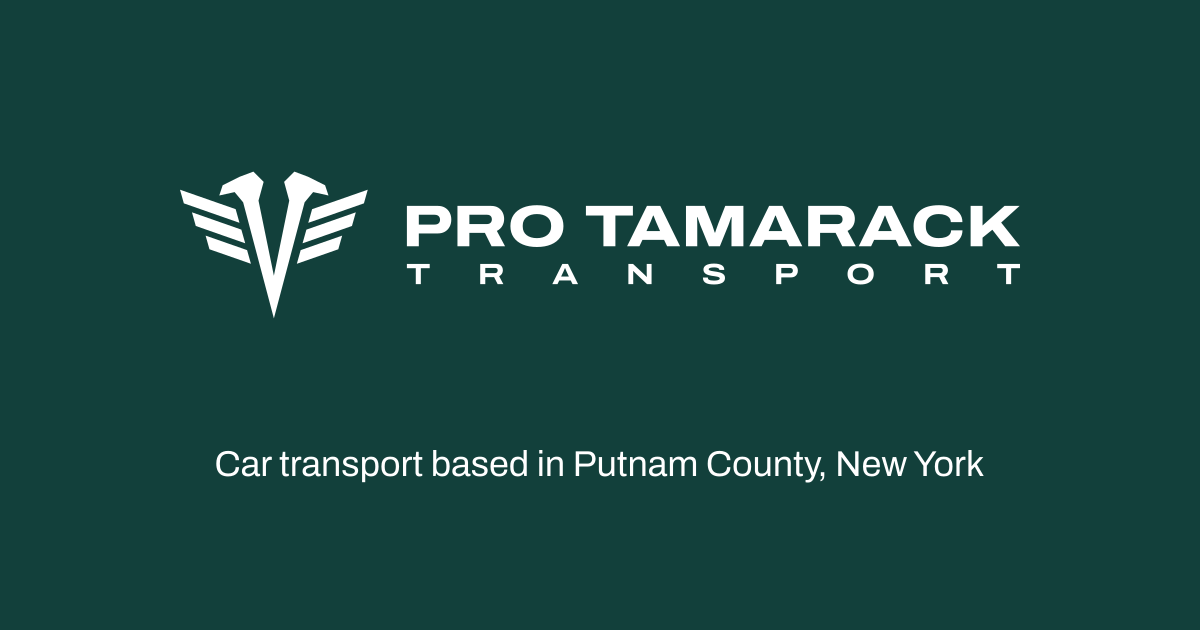
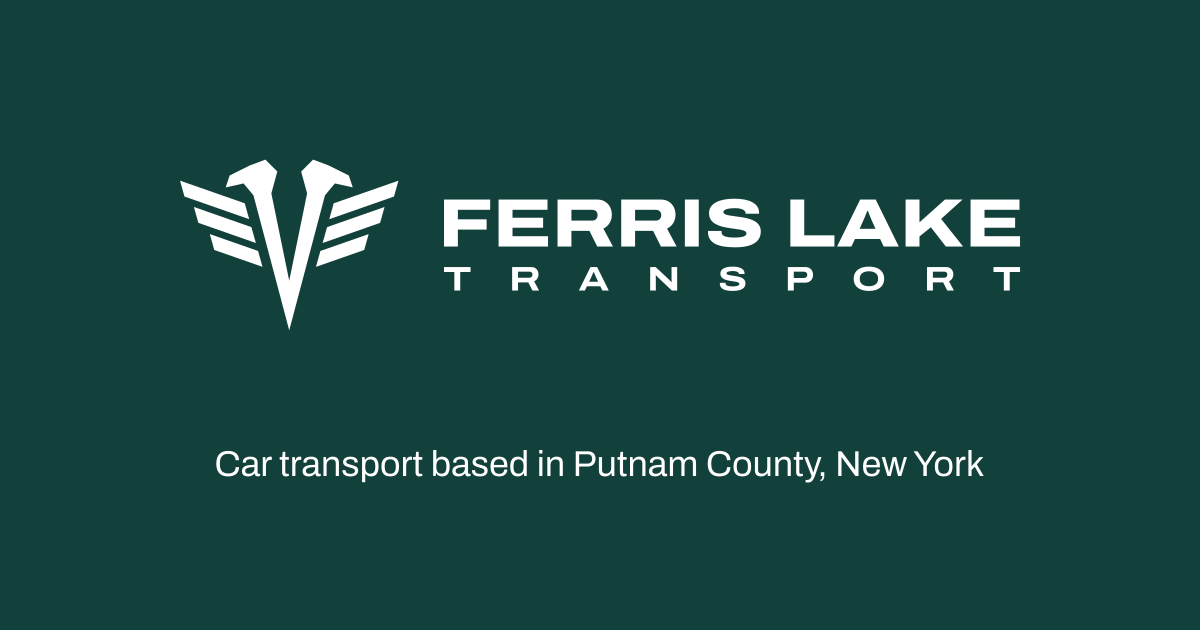
Rebrand to Ferris Lake Transport LLC

diff --git a/index.html b/index.html
@@ -4,7 +4,7 @@
   <meta charset="utf-8">
   <meta name="viewport" content="width=device-width, initial-scale=1">
 
-  <title>Pro Tamarack Transport LLC | Car Transport Based in Putnam County, New York</title>
+  <title>Ferris Lake Transport LLC | Car Transport Based in Putnam County, New York</title>
   <meta name="description" content="Car transport based in Putnam County, New York. Open carrier, door to door, serving the Hudson Valley, Catskills, Capital Region and Adirondacks, plus the rest of New York and the Northeast. Call or text (914) 462-9633.">
   <link rel="canonical" href="https://vatajtransport.com/">
   <meta name="robots" content="index, follow">
@@ -12,8 +12,8 @@
 
   <!-- Open Graph / social sharing -->
   <meta property="og:type" content="website">
-  <meta property="og:site_name" content="Pro Tamarack Transport LLC">
-  <meta property="og:title" content="Pro Tamarack Transport LLC | Car Transport Based in Putnam County, New York">
+  <meta property="og:site_name" content="Ferris Lake Transport LLC">
+  <meta property="og:title" content="Ferris Lake Transport LLC | Car Transport Based in Putnam County, New York">
   <meta property="og:description" content="Open car hauling, door to door, across New York and the Northeast.">
   <meta property="og:url" content="https://vatajtransport.com/">
   <meta property="og:image" content="https://vatajtransport.com/og-image.png">
@@ -21,7 +21,7 @@
   <meta property="og:image:height" content="630">
   <meta property="og:locale" content="en_US">
   <meta name="twitter:card" content="summary_large_image">
-  <meta name="twitter:title" content="Pro Tamarack Transport LLC | Car Transport Based in Putnam County, New York">
+  <meta name="twitter:title" content="Ferris Lake Transport LLC | Car Transport Based in Putnam County, New York">
   <meta name="twitter:description" content="Open car hauling, door to door, across New York and the Northeast.">
   <meta name="twitter:image" content="https://vatajtransport.com/og-image.png">
 
@@ -41,7 +41,7 @@
   {
     "@context": "https://schema.org",
     "@type": "LocalBusiness",
-    "name": "Pro Tamarack Transport LLC",
+    "name": "Ferris Lake Transport LLC",
     "description": "Car transport company based in Putnam County, New York. Open car hauling, door to door, across New York and the Northeast.",
     "openingHoursSpecification": [
       { "@type": "OpeningHoursSpecification", "dayOfWeek": ["Monday", "Tuesday", "Wednesday", "Thursday", "Friday"], "opens": "09:00", "closes": "21:00" }
@@ -98,7 +98,7 @@
 
   <header class="top">
     <div class="wrap top-inner">
-      <a href="#top" class="top-logo"><img src="img/pro-tamarack-logo-green.svg" alt="Pro Tamarack Transport" width="200" height="43"></a>
+      <a href="#top" class="top-logo"><img src="img/ferris-lake-logo-green.svg" alt="Ferris Lake Transport" width="200" height="49"></a>
       <a class="top-phone" href="tel:+19144629633"><small>Call</small> (914) 462-9633</a>
     </div>
   </header>
@@ -217,8 +217,8 @@
     <section class="trust" id="trust">
       <div class="wrap">
         <div class="door">
-          <img src="img/pro-tamarack-mark-green.svg" alt="" width="120" height="97">
-          <p class="door-line">Pro Tamarack Transport LLC · USDOT [NUMBER]</p>
+          <img src="img/ferris-lake-mark-green.svg" alt="" width="120" height="97">
+          <p class="door-line">Ferris Lake Transport LLC · USDOT [NUMBER]</p>
         </div>
         <p class="trust-text">Look us up on <a href="https://safer.fmcsa.dot.gov/CompanySnapshot.aspx" target="_blank" rel="noopener">FMCSA SAFER</a> with our USDOT number. Insured through [INSURANCE CARRIER], [COVERAGE DETAILS].</p>
       </div>
@@ -229,7 +229,7 @@
     <section class="about" id="about">
       <div class="wrap">
         <h2>About</h2>
-        <p>Pro Tamarack Transport is based in Putnam County, New York. Call or text Monday to Friday, 9 am to 9 pm.</p>
+        <p>Ferris Lake Transport is based in Putnam County, New York. Call or text Monday to Friday, 9 am to 9 pm.</p>
         <p class="sign">Alex Vataj, Owner/Operator</p>
       </div>
     </section>
@@ -279,7 +279,7 @@
 
   <footer class="foot">
     <div class="wrap foot-inner">
-      <img src="img/pro-tamarack-logo-white.svg" alt="Pro Tamarack Transport" width="200" height="43">
+      <img src="img/ferris-lake-logo-white.svg" alt="Ferris Lake Transport" width="200" height="49">
       <a class="foot-phone" href="tel:+19144629633">(914) 462-9633</a>
       <p>
         <a href="mailto:vatajxf@mailbox.org">vatajxf@mailbox.org</a><br>
@@ -288,7 +288,7 @@
         <!-- <br>USDOT [NUMBER] -->
       </p>
     </div>
-    <p class="wrap foot-legal">© <span id="year">2026</span> Pro Tamarack Transport LLC</p>
+    <p class="wrap foot-legal">© <span id="year">2026</span> Ferris Lake Transport LLC</p>
   </footer>
 
   <script src="main.js" defer></script>

diff --git a/styles.css b/styles.css
@@ -1,4 +1,4 @@
-/* Pro Tamarack Transport LLC */
+/* Ferris Lake Transport LLC */
 
 @font-face {
   font-family: "Archivo";
@@ -47,7 +47,7 @@ h2 { font-size: clamp(2rem, 6vw, 3rem); margin-bottom: 28px; }
 /* Top bar */
 .top { border-bottom: 3px solid var(--green); }
 .top-inner { display: flex; align-items: center; justify-content: space-between; gap: 12px; padding-top: 6px; padding-bottom: 6px; }
-.top-logo img { width: 200px; margin-left: -5px; }
+.top-logo img { width: 190px; margin-left: -5px; }
 .top-phone { font-weight: 800; font-size: 1.05rem; text-decoration: none; white-space: nowrap; }
 .top-phone small { display: none; font-weight: 500; font-size: .85rem; margin-right: 4px; }
 
@@ -169,7 +169,7 @@ body:has(.callbar) { padding-bottom: calc(56px + env(safe-area-inset-bottom)); }
 /* Footer */
 .foot { padding: 44px 0 20px; color: var(--white); background: var(--green); }
 .foot-inner { display: grid; gap: 16px; }
-.foot-inner img { width: 230px; margin-left: -5px; }
+.foot-inner img { width: 210px; margin-left: -5px; }
 .foot-phone { font-size: clamp(1.8rem, 6vw, 2.6rem); font-weight: 800; letter-spacing: -0.02em; text-decoration: none; }
 .foot-phone:hover { text-decoration: underline; }
 .foot p { margin: 0; opacity: .85; }
@@ -183,7 +183,7 @@ body:has(.callbar) { padding-bottom: calc(56px + env(safe-area-inset-bottom)); }
   .callbar { display: none; }
   body:has(.callbar) { padding-bottom: 0; }
   .wrap { padding: 0 32px; }
-  .top-logo img { width: 250px; }
+  .top-logo img { width: 230px; }
   .hero { padding-top: 72px; }
   .hero h1 { max-width: 14em; }
   .services, .how, .about, .trust { padding: 96px 0; }

diff --git a/404.html b/404.html
@@ -3,7 +3,7 @@
 <head>
   <meta charset="utf-8">
   <meta name="viewport" content="width=device-width, initial-scale=1">
-  <title>Page not found | Pro Tamarack Transport LLC</title>
+  <title>Page not found | Ferris Lake Transport LLC</title>
   <meta name="robots" content="noindex">
   <meta name="theme-color" content="#12403B">
   <link rel="icon" href="/favicon.ico" sizes="48x48">
@@ -14,7 +14,7 @@
 <body>
   <header class="top">
     <div class="wrap top-inner">
-      <a href="/" class="top-logo"><img src="/img/pro-tamarack-logo-green.svg" alt="Pro Tamarack Transport" width="200" height="43"></a>
+      <a href="/" class="top-logo"><img src="/img/ferris-lake-logo-green.svg" alt="Ferris Lake Transport" width="200" height="49"></a>
       <a class="top-phone" href="tel:+19144629633"><small>Call</small> (914) 462-9633</a>
     </div>
   </header>
